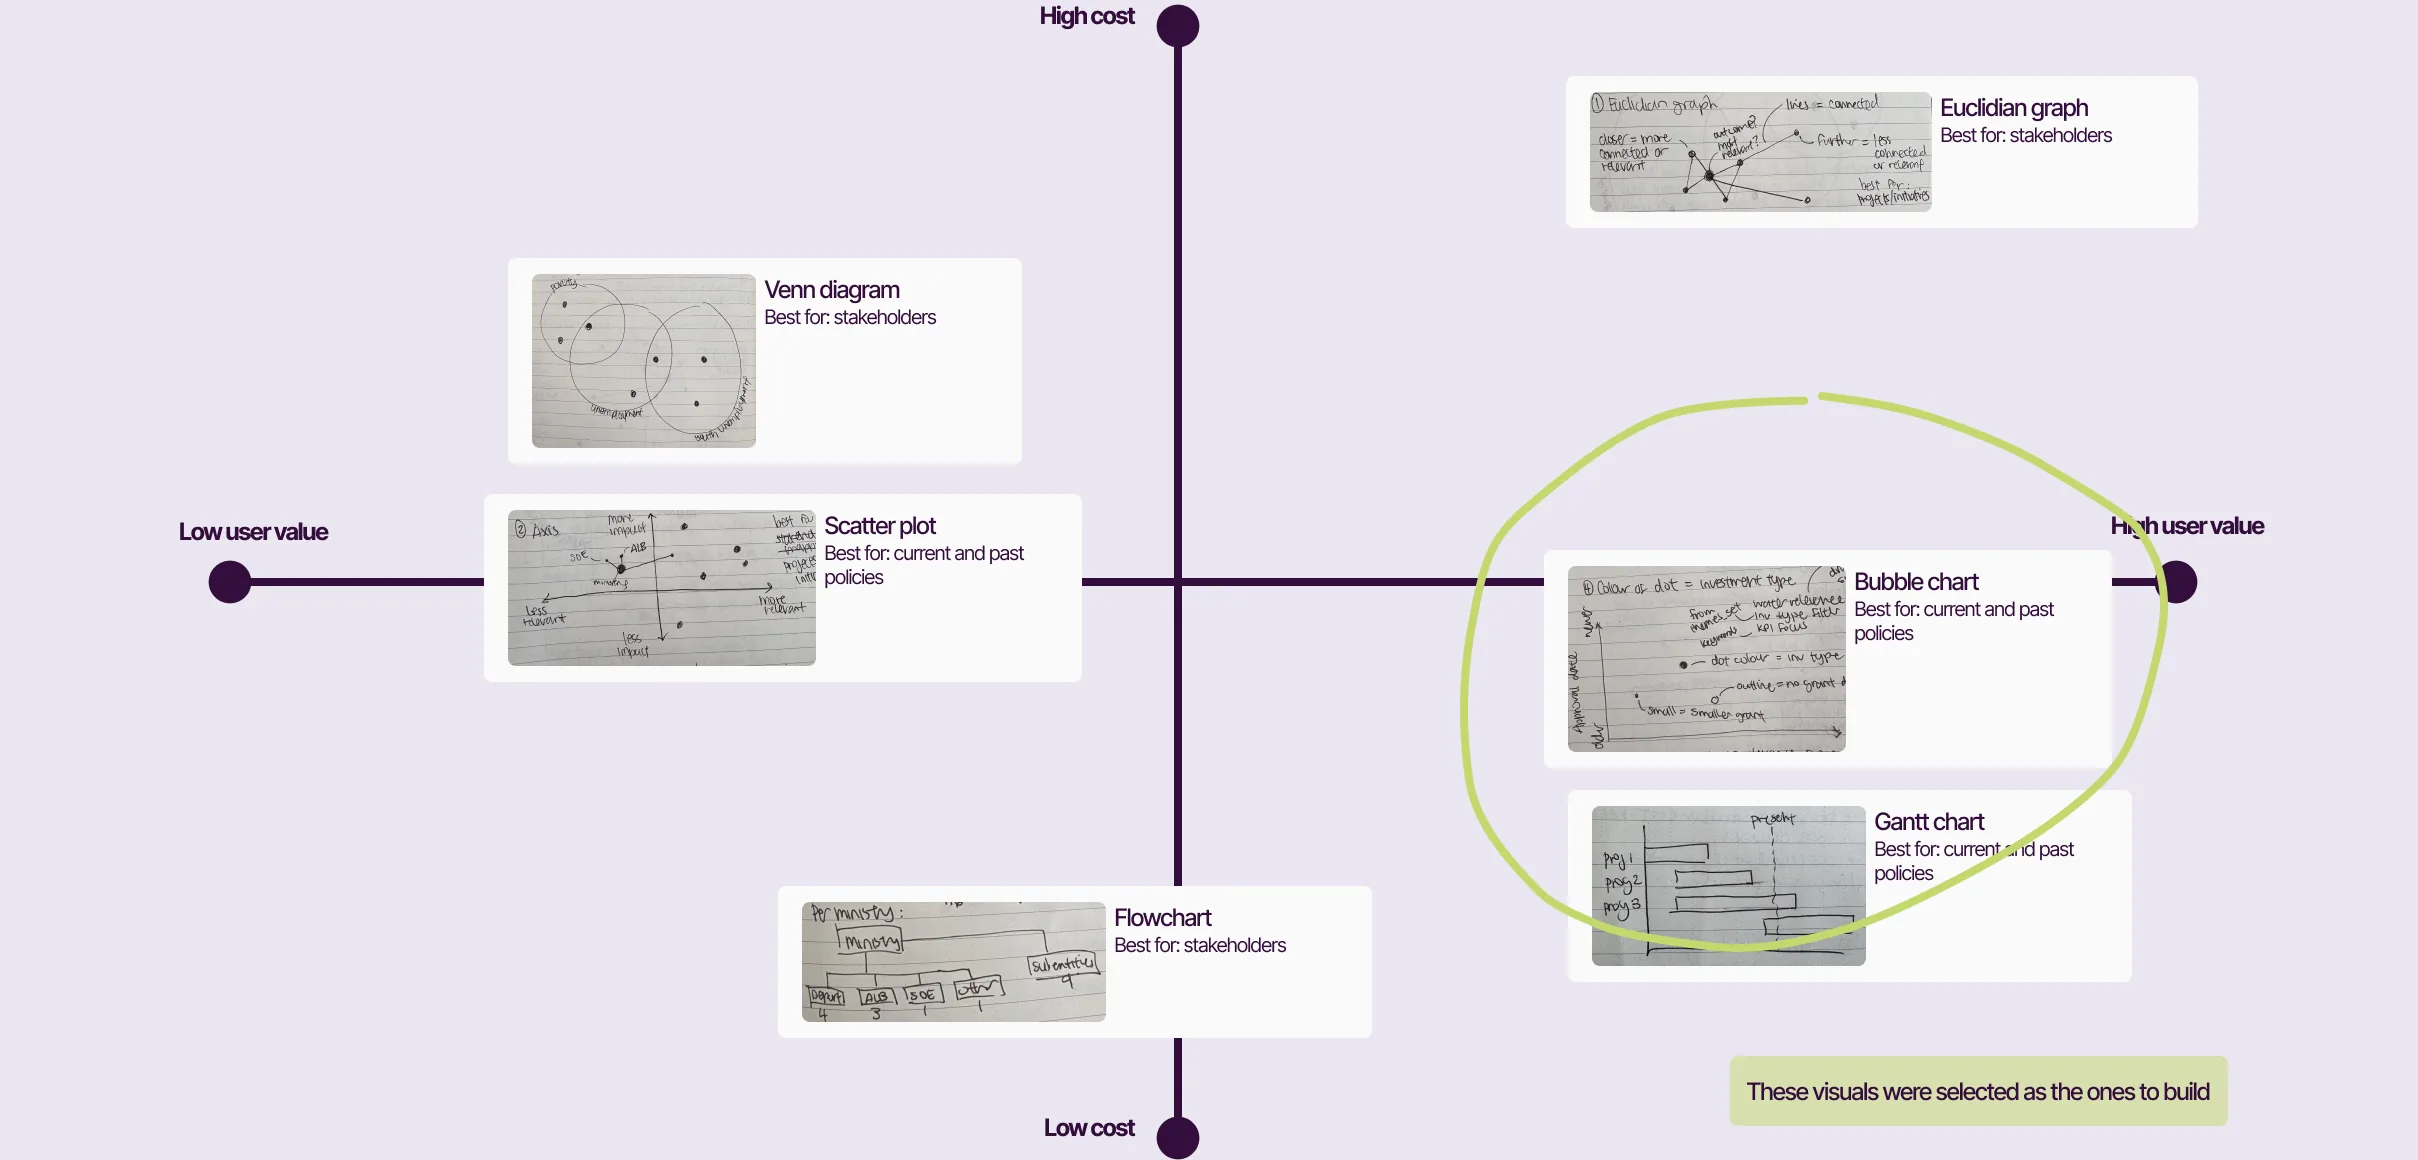
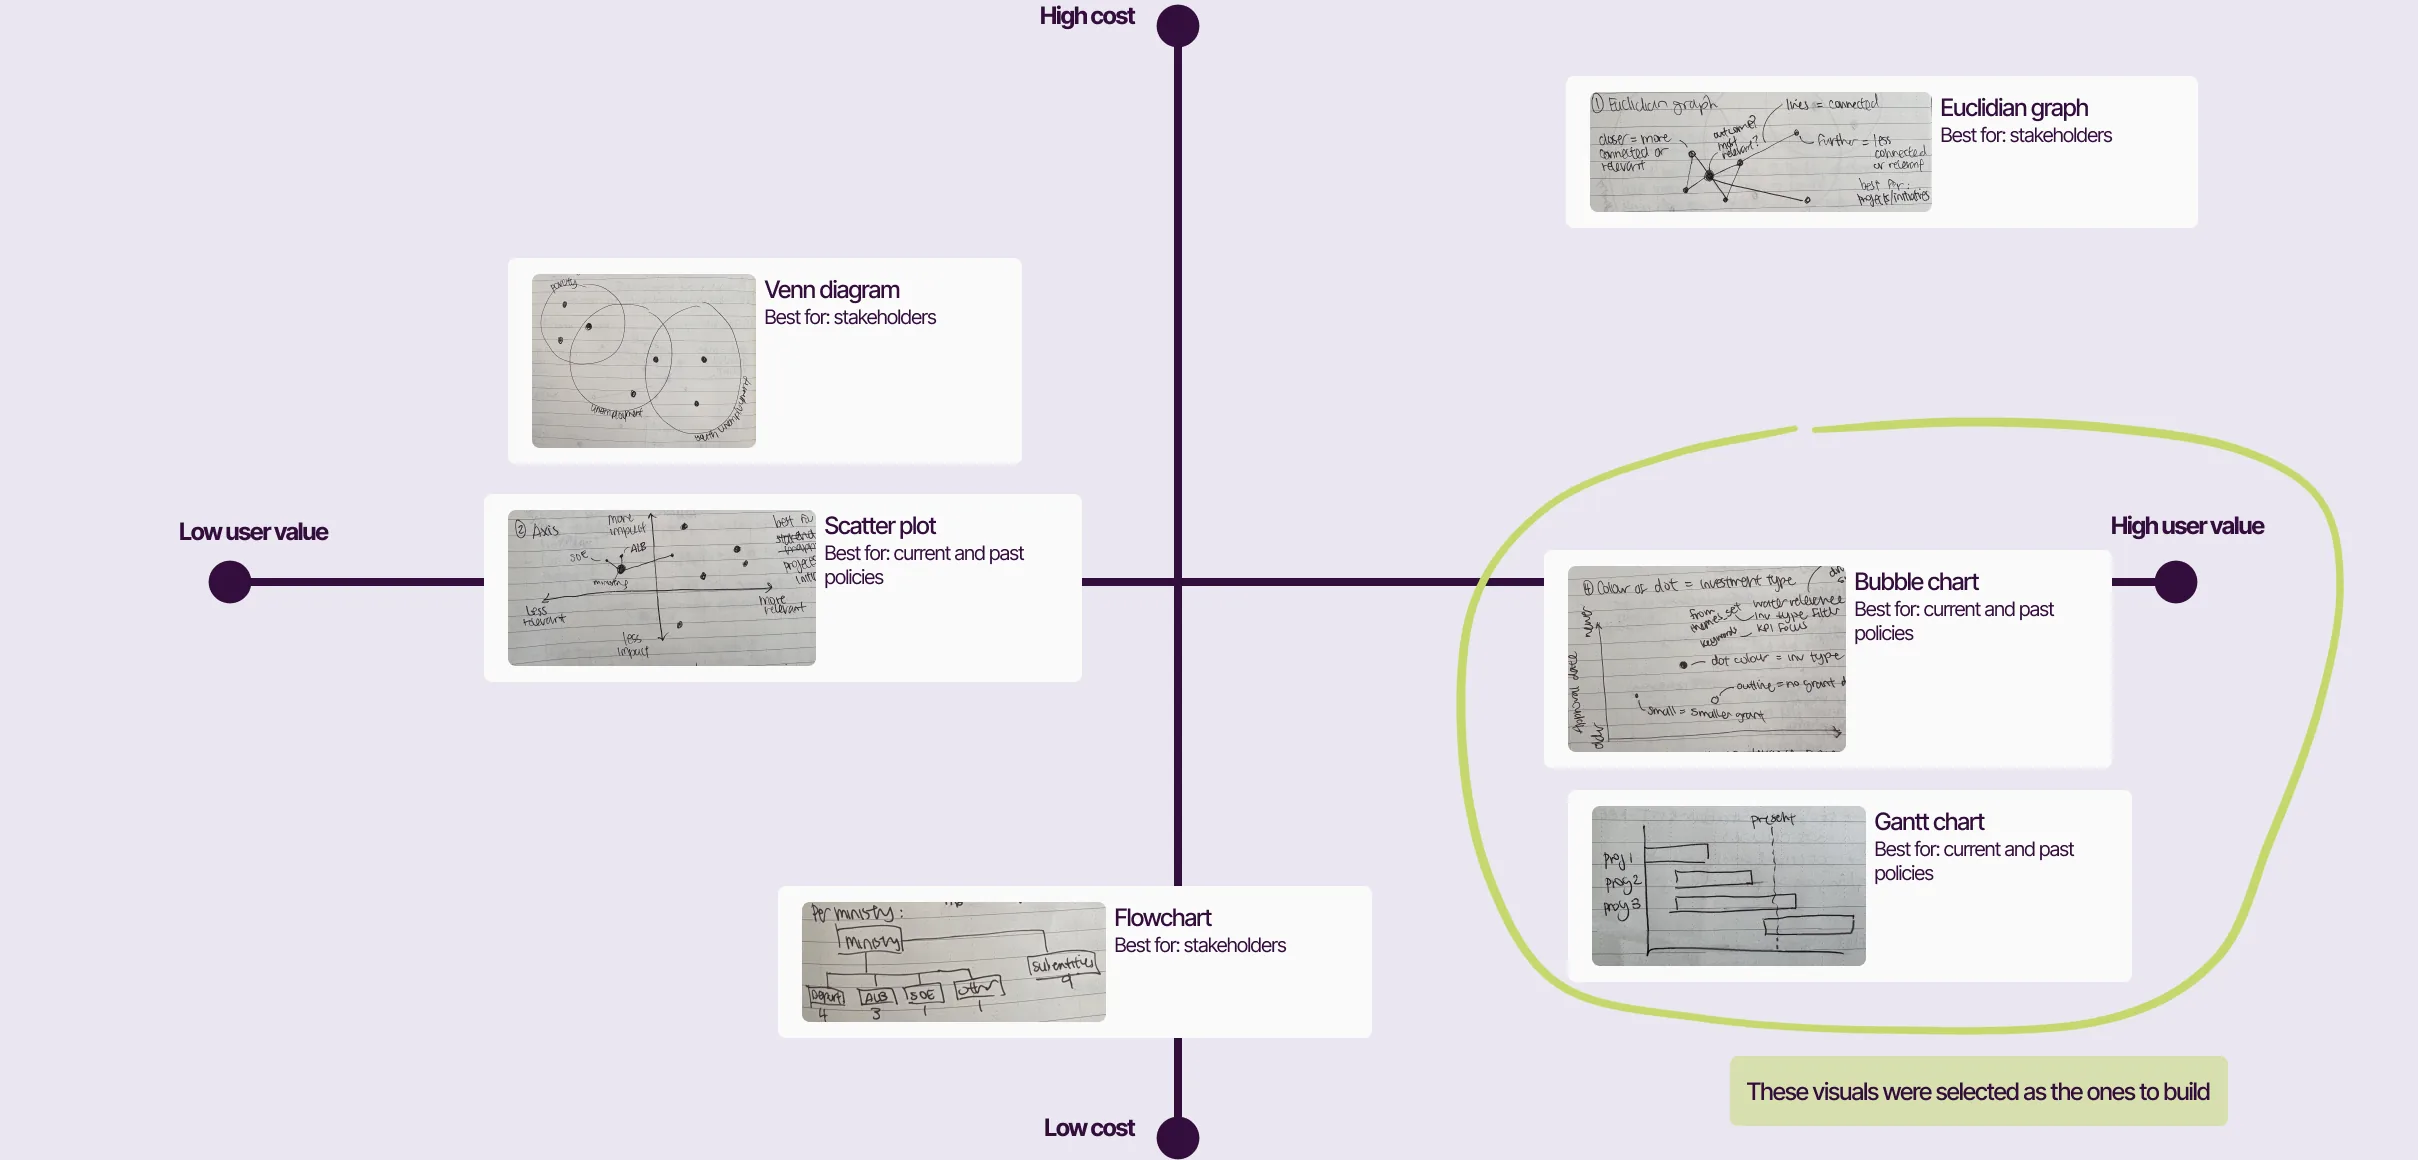
fix(compute-costs,about): clear matrix circle off text, remove pets section
Repaint the matrix's green circle so it encloses the Bubble and Gantt cards
without covering text. Remove the About page pets section and its three photos.

diff --git a/app/about/page.tsx b/app/about/page.tsx
@@ -2,9 +2,6 @@ import type { Metadata } from "next";
 import Image from "next/image";
 import { Collage, Piece, collageBody } from "@/components/Collage";
 import { Footer } from "@/components/Footer";
-import beach from "@/assets/images/about/beach.webp";
-import catBlack from "@/assets/images/about/cat-black.webp";
-import catOrange from "@/assets/images/about/cat-orange.webp";
 import jewelry1 from "@/assets/images/about/jewelry-1.webp";
 import jewelry2 from "@/assets/images/about/jewelry-2.webp";
 import jewelry3 from "@/assets/images/about/jewelry-3.webp";
@@ -101,24 +98,6 @@ export default function About() {
           </Piece>
           <Piece x={918.5} y={0} w={182} className="w-3/4">
             <Image src={chair} alt="A carved wooden folding chair." sizes="(min-width: 1024px) 13vw, 35vw" />
-          </Piece>
-        </Collage>
-
-        {/* Pets (3161:10364): clipped at the left edge like the design's 1100px-wide frame. */}
-        <Collage height={926} clip className={blockGap}>
-          <Piece x={295} y={174.89} w={565} className="order-3 col-span-2">
-            <Image src={beach} alt="Amy riding a horse along a beach." sizes="(min-width: 1024px) 40vw, 90vw" />
-          </Piece>
-          <Piece x={888} y={505.89} w={212} className="order-4 col-span-2">
-            <p className={collageBody}>
-              I have two amazing cats but also have a rotation of friends’ cats and dogs who I pet-sit while they travel
-            </p>
-          </Piece>
-          <Piece x={247} y={174.89} w={249} className="order-2 w-3/4 justify-self-center">
-            <Image src={catOrange} alt="An orange tabby cat sitting up." sizes="(min-width: 1024px) 18vw, 35vw" />
-          </Piece>
-          <Piece x={-292.8} y={0} w={782.6} className="order-1 -ml-5 lg:ml-0">
-            <Image src={catBlack} alt="A black cat stretched out." sizes="(min-width: 1024px) 55vw, 50vw" />
           </Piece>
         </Collage>
       </main>

diff --git a/docs/worklog.md b/docs/worklog.md
@@ -2,6 +2,15 @@
 
 Newest first. One entry per milestone.
 
+## 2026-11-06 — Matrix circle and About page trim
+
+- Compute costs value/cost matrix: the green circle is baked into the image, so it was
+  repainted to clear all text. New source `05-cost-value-quadrant-recircled@2x.png`; the
+  Figma snapshot `05-cost-value-quadrant@2x.png` is kept untouched. The part of the Gantt
+  sketch the old circle hid is a reconstruction, as the raw photo isn't in the repo.
+- About page: removed the pets section and its three photos (horse, two cats). Their
+  originals stay in `design/assets/about/`.
+
 ## 2026-11-04 — Footer orchid motion blur
 
 - The footer orchid now has a sideways camera-motion blur: an SVG `feGaussianBlur`
